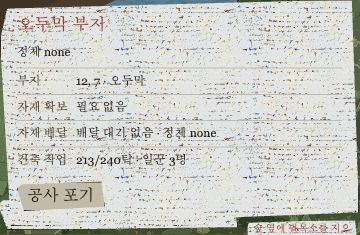
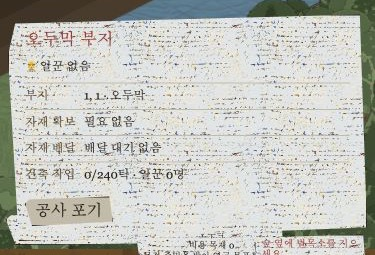
Make final construction evidence match the shipped diagnostics
The compliance audit caught stale screenshots that still displayed raw stall enums and an ambiguous mobile crop. Refresh the report and focused browser artifacts from the DGX code candidate so the checked-in evidence proves the actionable Korean labels and responsive geometry.

Constraint: Keep the report at exactly eight requested sections and retain raw external browser evidence.

Rejected: Leave the old screenshots and rely on unit tests | the acceptance gate requires real-browser visual proof.

Confidence: high

Scope-risk: narrow

Reversibility: clean

Directive: Refresh screenshot evidence whenever user-visible diagnostic copy changes.

Tested: DGX 549/549 tests, typecheck, build, harness twice, Chromium 1280/768/375 geometry, independent visual review

Not-tested: Lighthouse was not rerun because this change fixes diagnostic copy and evidence, not performance architecture.

diff --git a/docs/PHASE6_STAGE2_BUILDING_TAKES_TIME_REPORT.md b/docs/PHASE6_STAGE2_BUILDING_TAKES_TIME_REPORT.md
@@ -26,7 +26,7 @@ Part 7: the economy harness serializes construction state and now reports four c
 - 375px focused responsive card: [stage2_responsive_375_focused.jpg](assets/stage2_responsive_375_focused.jpg)
 - 768px responsive card: [stage2_responsive_768_card.jpg](assets/stage2_responsive_768_card.jpg)
 
-Raw browser capture evidence: [stage2_precise_stage_captures.json](asset-evidence/stage2_precise_stage_captures.json), [stage2_browser_responsive_verdict.json](asset-evidence/stage2_browser_responsive_verdict.json).
+Raw browser capture evidence: [stage2_precise_stage_captures.json](asset-evidence/stage2_precise_stage_captures.json), [stage2_browser_responsive_verdict.json](asset-evidence/stage2_browser_responsive_verdict.json), and [stage2_final_remediation_verification.txt](asset-evidence/stage2_final_remediation_verification.txt).
 
 ## 3. New determinism hash, with the old one for comparison
 Old Stage 1 hash: `4d92c66f9408a603`.
@@ -59,9 +59,9 @@ Measured on DGX with speed `5` and `3` builders: `frames=60`, `wallTicks=60`, `s
 The result proves the 60-wall-tick floor holds even though simulation substeps advanced to 300 at 5x. Evidence: [stage2_lifecycle_speed5_builders3.json](asset-evidence/stage2_lifecycle_speed5_builders3.json).
 
 ## 6. Test output, typecheck/build results, frame time at 5x
-DGX `npm test`: `548` tests passed, `0` failed. Evidence: [stage2_dgx_npm_test.log](asset-evidence/stage2_dgx_npm_test.log).
+DGX `npm test`: `549` tests passed, `0` failed after the final card-label regression was added. Evidence: [stage2_final_remediation_verification.txt](asset-evidence/stage2_final_remediation_verification.txt); the earlier 548-test delivery run remains in [stage2_dgx_npm_test.log](asset-evidence/stage2_dgx_npm_test.log).
 
-DGX `npm run typecheck`: passed. DGX `npm run build`: passed with Vite production output `dist/assets/index-CIMnXIcl.css` and `dist/assets/index-Cw4-VtsX.js`. Evidence: [stage2_dgx_typecheck_build_harness.log](asset-evidence/stage2_dgx_typecheck_build_harness.log).
+DGX `npm run typecheck`: passed. DGX `npm run build`: passed with Vite production output `dist/assets/index-CIMnXIcl.css` and `dist/assets/index-BKIagSXR.js`. Evidence: [stage2_final_remediation_verification.txt](asset-evidence/stage2_final_remediation_verification.txt).
 
 DGX ffmpeg-backed asset tests and release verifiers: `22` tests passed, building sprite verification passed, and world asset release verification passed. Evidence: [stage2_dgx_ffmpeg_gate.log](asset-evidence/stage2_dgx_ffmpeg_gate.log).
 
@@ -76,15 +76,15 @@ DGX ffmpeg-backed asset tests and release verifiers: `22` tests passed, building
 Evidence: [stage2_frame_benchmark_1.json](asset-evidence/stage2_frame_benchmark_1.json), [stage2_frame_benchmark_2.json](asset-evidence/stage2_frame_benchmark_2.json), [stage2_frame_benchmark_3.json](asset-evidence/stage2_frame_benchmark_3.json).
 
 ## 7. Commit hash, branch, remote-landing confirmation, GitHub URL, dev server URL
-Code candidate commit: `6b59f152632d431156b3ab3d4d2e0091aac0f57a`.
+Final code candidate commit: `082de6ae79f8affd19337cac51b28737bdecfa81`.
 
-Code candidate tree: `8d1df12d9255f771b27f436a93f946ef94292a6e`.
+Final code candidate tree: `5204ee9cd29aef1e01ebcbbaa30dd2a4278393b3`.
 
 Branch used for implementation: `codex/stage2-building-takes-time`.
 
 Remote: `https://github.com/hyunlord/feudal-lord-simulator.git`.
 
-Candidate remote landing: `git push origin HEAD:main` succeeded and `git ls-remote origin refs/heads/main` returned `6b59f152632d431156b3ab3d4d2e0091aac0f57a` before this report/evidence commit.
+Candidate remote landing: `git push origin HEAD:main` succeeded and `git ls-remote origin refs/heads/main` returned `082de6ae79f8affd19337cac51b28737bdecfa81` before this final report/evidence refresh.
 
 GitHub URL: `https://github.com/hyunlord/feudal-lord-simulator`.
 
